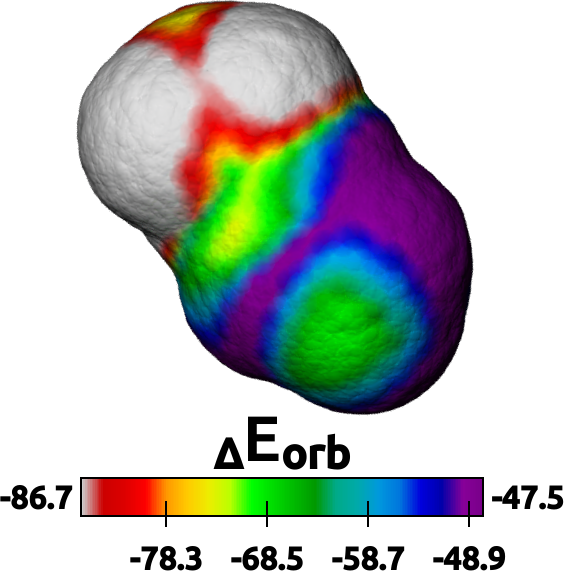
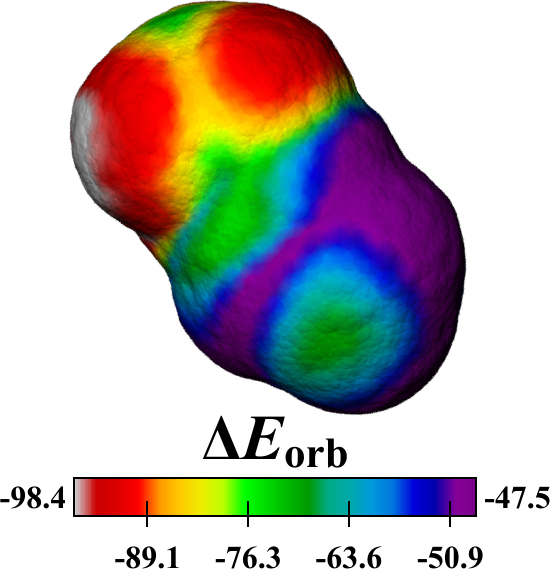
update ReadMe

diff --git a/IMIP/Utils/variables.py b/IMIP/Utils/variables.py
@@ -44,22 +44,22 @@ ovito_grid_header = {'turbomole':['Particle Type', 'Position.X', 'Position.Y', '
                     "x_norm", "y_norm", "z_norm",'Pauli', 'E_disp_ATM', 'E_disp_2B', 'Disp', 'E_ES_atom',
                     'E_ES_LMO','Electro', 'Induction', 'Orb', 'Tot']}
 
-ovito_title_labels= {'turbomole':{'Tot': '<sub>&Delta;</sub>E<sub>int<\sub>',
-                    'Electro': '<sub>&Delta;</sub>E<sub>es<\sub>',
-                    'Ex-Rep': '<sub>&Delta;</sub>E<sub>ex_rep<\sub>',
-                    'Orb': '<sub>&Delta;</sub>E<sub>orb<\sub>',
-                    'Corr': '<sub>&Delta;</sub>E<sub>corr<\sub>',
-                    'Disp': '<sub>&Delta;</sub>E<sub>disp<\sub>',
-                    'Disp_Corr': '<sub>&Delta;</sub>E<sub>disp_corr<\sub>',
-                    'Steric': '<sub>&Delta;</sub>E<sub>steric<\sub>',
+ovito_title_labels= {'turbomole':{'Tot': '&Delta;<i>E</i><sub>int<\sub>',
+                    'Electro': '&Delta;<i>E</i><sub>es<\sub>',
+                    'Ex-Rep': '&Delta;<i>E</i><sub>ex_rep<\sub>',
+                    'Orb': '&Delta;<i>E</i><sub>orb<\sub>',
+                    'Corr': '&Delta;<i>E</i><sub>corr<\sub>',
+                    'Disp': '&Delta;<i>E</i><sub>disp<\sub>',
+                    'Disp_Corr': '&Delta;<i>E</i><sub>disp_corr<\sub>',
+                    'Steric': '&Delta;<i>E</i><sub>steric<\sub>',
                     'NBO': 'NBO'},
-                     'xtb':{'Tot': '<sub>&Delta;</sub>E<sub>int<\sub>',
-                    'Electro': '<sub>&Delta;</sub>E<sub>es<\sub>',
-                    'Disp': '<sub>&Delta;</sub>E<sub>disp<\sub>',
-                    'Induction': '<sub>&Delta;</sub>E<sub>ind<\sub>',
-                    'Orb': '<sub>&Delta;</sub>E<sub>CT<\sub>',
-                    'Pauli': '<sub>&Delta;</sub>E<sub>Pauli<\sub>',
-                    'E_disp_ATM': '<sub>&Delta;</sub>E<sub>dispATM<\sub>',
-                    'E_disp_2B': '<sub>&Delta;</sub>E<sub>disp2B<\sub>',
-                    'E_ES_atom': '<sub>&Delta;</sub>E<sub>ESatom<\sub>',
-                    'E_ES_LMO': '<sub>&Delta;</sub>E<sub>ESlmo<\sub>'}}
+                     'xtb':{'Tot': '&Delta;<i>E</i><sub>int<\sub>',
+                    'Electro': '&Delta;<i>E</i><sub>es<\sub>',
+                    'Disp': '&Delta;<i>E</i><sub>disp<\sub>',
+                    'Induction': '&Delta;<i>E</i><sub>ind<\sub>',
+                    'Orb': '&Delta;<i>E</i><sub>CT<\sub>',
+                    'Pauli': '&Delta;<i>E</i><sub>Pauli<\sub>',
+                    'E_disp_ATM': '&Delta;<i>E</i><sub>dispATM<\sub>',
+                    'E_disp_2B': '&Delta;<i>E</i><sub>disp2B<\sub>',
+                    'E_ES_atom': '&Delta;<i>E</i><sub>ESatom<\sub>',
+                    'E_ES_LMO': '&Delta;<i>E</i><sub>ESlmo<\sub>'}}
